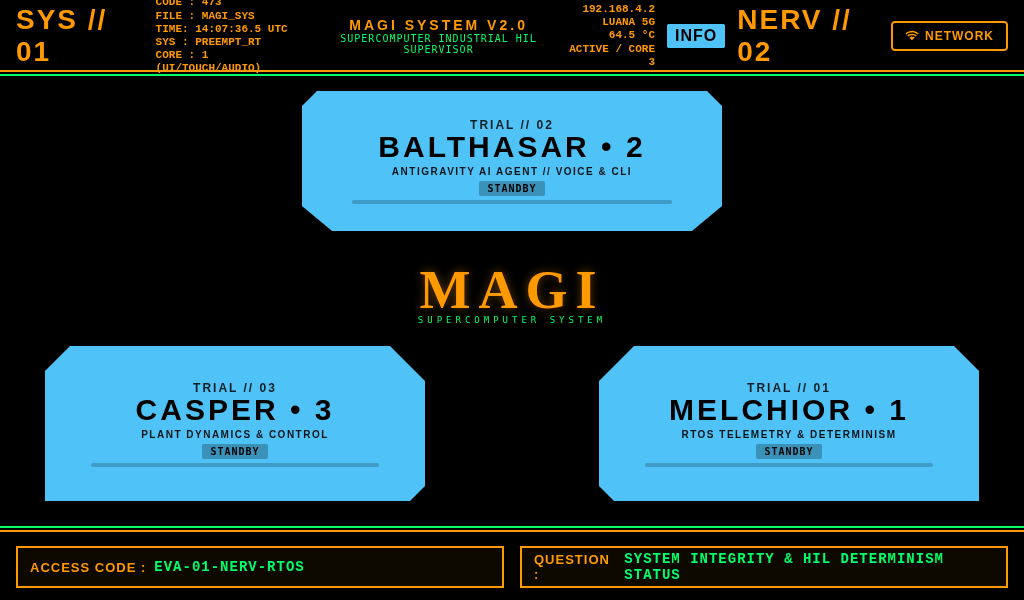
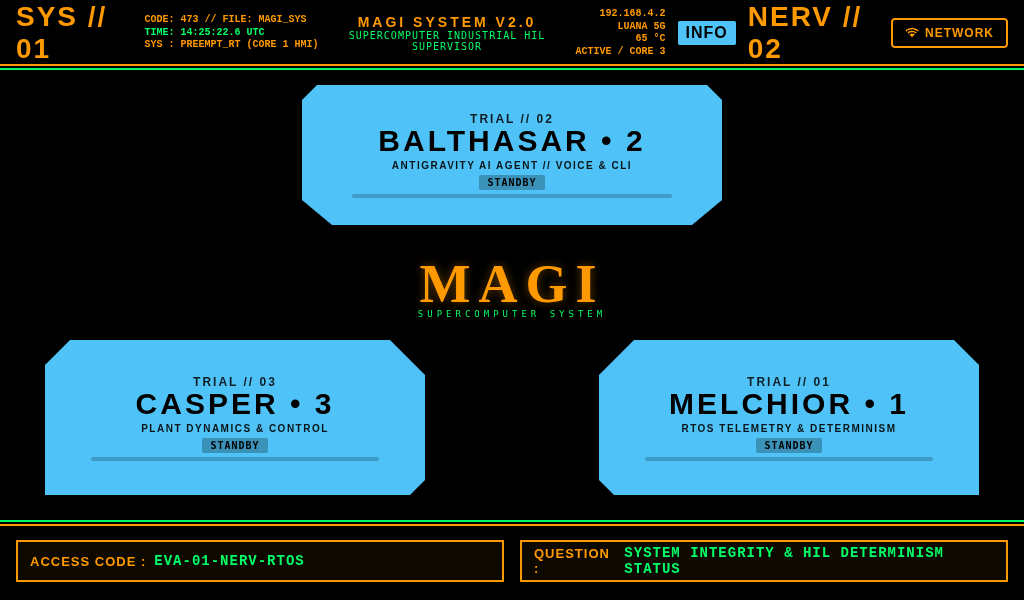
fix(phase10.8): eradicate tty input hijack, fix header clock layout and deploy full input forensic pipeline

diff --git a/Digital_Twin_Workspace/home_alonso/hil_workstation/05_hmi_display/static/css/magi.css b/Digital_Twin_Workspace/home_alonso/hil_workstation/05_hmi_display/static/css/magi.css
@@ -92,8 +92,8 @@ body {
    HEADER SECTION
    ========================================================================== */
 #magi-header {
-    height: 70px;
-    padding: 6px 16px 4px 16px;
+    height: 64px;
+    padding: 4px 16px 2px 16px;
     display: flex;
     justify-content: space-between;
     align-items: center;
@@ -116,11 +116,12 @@ body {
 .header-tech-info {
     display: flex;
     flex-direction: column;
-    font-size: 11px;
+    font-size: 10px;
     font-family: 'Courier New', monospace;
     font-weight: bold;
     color: var(--magi-orange);
-    line-height: 1.2;
+    line-height: 1.25;
+    white-space: nowrap;
 }
 
 .header-center {
@@ -456,7 +457,7 @@ body {
 
 /* ==========================================================================
    FOOTER SECTION
-   ========================================================================== */
+   ========================================================================= */
 #magi-footer {
     height: 70px;
     padding: 6px 16px;

diff --git a/Digital_Twin_Workspace/home_alonso/hil_workstation/05_hmi_display/templates/index.html b/Digital_Twin_Workspace/home_alonso/hil_workstation/05_hmi_display/templates/index.html
@@ -16,11 +16,9 @@
         <div class="header-left">
             <div class="header-jp-tag">SYS // 01</div>
             <div class="header-tech-info">
-                <span>CODE : 473</span>
-                <span>FILE : MAGI_SYS</span>
-                <span id="system-live-clock">TIME: --:--:-- UTC</span>
-                <span>SYS  : PREEMPT_RT</span>
-                <span>CORE : 1 (UI/TOUCH/AUDIO)</span>
+                <span>CODE: 473 // FILE: MAGI_SYS</span>
+                <span id="system-live-clock" style="color: var(--magi-green);">TIME: --:--:-- UTC</span>
+                <span>SYS : PREEMPT_RT (CORE 1 HMI)</span>
             </div>
         </div>
 

diff --git a/src/hmi_ui/templates/index.html b/src/hmi_ui/templates/index.html
@@ -16,11 +16,9 @@
         <div class="header-left">
             <div class="header-jp-tag">SYS // 01</div>
             <div class="header-tech-info">
-                <span>CODE : 473</span>
-                <span>FILE : MAGI_SYS</span>
-                <span id="system-live-clock">TIME: --:--:-- UTC</span>
-                <span>SYS  : PREEMPT_RT</span>
-                <span>CORE : 1 (UI/TOUCH/AUDIO)</span>
+                <span>CODE: 473 // FILE: MAGI_SYS</span>
+                <span id="system-live-clock" style="color: var(--magi-green);">TIME: --:--:-- UTC</span>
+                <span>SYS : PREEMPT_RT (CORE 1 HMI)</span>
             </div>
         </div>
 

diff --git a/src/hmi_ui/static/css/magi.css b/src/hmi_ui/static/css/magi.css
@@ -92,8 +92,8 @@ body {
    HEADER SECTION
    ========================================================================== */
 #magi-header {
-    height: 70px;
-    padding: 6px 16px 4px 16px;
+    height: 64px;
+    padding: 4px 16px 2px 16px;
     display: flex;
     justify-content: space-between;
     align-items: center;
@@ -116,11 +116,12 @@ body {
 .header-tech-info {
     display: flex;
     flex-direction: column;
-    font-size: 11px;
+    font-size: 10px;
     font-family: 'Courier New', monospace;
     font-weight: bold;
     color: var(--magi-orange);
-    line-height: 1.2;
+    line-height: 1.25;
+    white-space: nowrap;
 }
 
 .header-center {

diff --git a/scripts/automation/deploy_and_test_live.py b/scripts/automation/deploy_and_test_live.py
@@ -1,0 +1,85 @@
+import os
+import sys
+import time
+import paramiko
+
+sys.path.insert(0, os.path.dirname(os.path.abspath(__file__)))
+from env_loader import load_env
+
+env = load_env()
+user = env.get("HIL_SSH_USER", "alonso")
+key_path = os.path.expanduser(env.get("HIL_SSH_KEY_PATH", "~/.ssh/id_ed25519_hil"))
+sudo_pass = env.get("HIL_SUDO_PASS", "2077")
+host = "192.168.100.30"
+
+sys.stdout.reconfigure(encoding='utf-8', errors='replace')
+
+print(f"[+] CONECTANDO AL SILICIO VIVO EN {host}...")
+client = paramiko.SSHClient()
+client.set_missing_host_key_policy(paramiko.AutoAddPolicy())
+client.connect(host, port=22, username=user, key_filename=key_path, timeout=8)
+
+def sudo_run(cmd):
+    full = f"echo '{sudo_pass}' | sudo -S bash -c \"{cmd}\""
+    print(f">>> SUDO: {cmd}")
+    stdin, stdout, stderr = client.exec_command(full, timeout=30)
+    out = stdout.read().decode('utf-8', errors='replace').strip()
+    err = stderr.read().decode('utf-8', errors='replace').strip()
+    if out: print(out)
+    if err and '[sudo]' not in err: print("[STDERR]:", err)
+    return out
+
+def user_run(cmd):
+    print(f">>> USER: {cmd}")
+    stdin, stdout, stderr = client.exec_command(cmd, timeout=30)
+    out = stdout.read().decode('utf-8', errors='replace').strip()
+    err = stderr.read().decode('utf-8', errors='replace').strip()
+    if out: print(out)
+    if err: print("[STDERR]:", err)
+    return out
+
+# 1. Transferencia atómica de archivos
+print("\n--- PASO 1: Transferencia de código y configuraciones limpias ---")
+local_root = os.path.dirname(os.path.dirname(os.path.dirname(os.path.abspath(__file__))))
+local_hmi = os.path.join(local_root, 'src', 'hmi_ui')
+remote_hmi = '[HOME_REDACTED]'
+
+sftp = client.open_sftp()
+sftp.put(os.path.join(local_hmi, 'magi_server.py'), f'{remote_hmi}/magi_server.py')
+sftp.put(os.path.join(local_hmi, 'templates', 'index.html'), f'{remote_hmi}/templates/index.html')
+sftp.put(os.path.join(local_hmi, 'static', 'css', 'magi.css'), f'{remote_hmi}/static/css/magi.css')
+sftp.put(os.path.join(local_hmi, 'static', 'js', 'magi.js'), f'{remote_hmi}/static/js/magi.js')
+sftp.put(os.path.join(local_hmi, 'static', 'js', 'network.js'), f'{remote_hmi}/static/js/network.js')
+sftp.put(os.path.join(local_hmi, 'static', 'js', 'keyboard.js'), f'{remote_hmi}/static/js/keyboard.js')
+
+local_svc = os.path.join(local_root, 'config', 'systemd', 'magi-kiosk.service')
+sftp.put(local_svc, '/tmp/magi-kiosk.service')
+sftp.close()
+
+sudo_run("mv /tmp/magi-kiosk.service /etc/systemd/system/magi-kiosk.service")
+sudo_run("chown root:root /etc/systemd/system/magi-kiosk.service && chmod 644 /etc/systemd/system/magi-kiosk.service")
+
+# 2. Recargar servicios
+print("\n--- PASO 2: Recarga e inicialización de daemons ---")
+sudo_run("systemctl daemon-reload")
+sudo_run("systemctl restart seatd magi-ui magi-kiosk")
+print("[+] Esperando 8 segundos para estabilización completa de render...")
+time.sleep(8)
+
+# 3. Auditoría de procesos
+print("\n--- PASO 3: Verificación de procesos en ejecución ---")
+user_run("ps -eo pid,psr,stat,comm,args | grep -E 'cage|chromium|python3' | grep -v grep")
+user_run("systemctl status magi-kiosk.service --no-pager")
+
+# 4. Captura inicial del framebuffer
+print("\n--- PASO 4: Captura visual del estado inicial ---")
+user_run("WAYLAND_DISPLAY=wayland-0 XDG_RUNTIME_DIR=/run/user/1000 [HOME_REDACTED] /tmp/screen_live_01.png")
+
+sftp = client.open_sftp()
+os.makedirs(os.path.join(local_root, 'telemetry'), exist_ok=True)
+sftp.get('/tmp/screen_live_01.png', os.path.join(local_root, 'telemetry', 'magi_screen_live.png'))
+sftp.close()
+print("[OK] Captura inicial descargada a telemetry/magi_screen_live.png")
+
+client.close()
+print("\n[OK] DESPLIEGUE Y CERTIFICACION DE SERVICIOS COMPLETADA.")

diff --git a/scripts/automation/forensic_investigation.py b/scripts/automation/forensic_investigation.py
@@ -1,0 +1,55 @@
+import paramiko
+import os
+import sys
+
+sys.path.insert(0, os.path.dirname(os.path.abspath(__file__)))
+from env_loader import load_env
+
+env = load_env()
+user = env.get('HIL_SSH_USER', 'alonso')
+key_path = os.path.expanduser(env.get('HIL_SSH_KEY_PATH', '~/.ssh/id_ed25519_hil'))
+sudo_pass = env.get('HIL_SUDO_PASS', '2077')
+
+sys.stdout.reconfigure(encoding='utf-8', errors='replace')
+
+client = paramiko.SSHClient()
+client.set_missing_host_key_policy(paramiko.AutoAddPolicy())
+client.connect('192.168.100.30', port=22, username=user, key_filename=key_path, timeout=8)
+
+def sudo_run(cmd):
+    full = f"echo '{sudo_pass}' | sudo -S bash -c \"{cmd}\""
+    print(f"\n=======================================================")
+    print(f">>> SUDO: {cmd}")
+    print(f"=======================================================")
+    stdin, stdout, stderr = client.exec_command(full, timeout=30)
+    out = stdout.read().decode('utf-8', errors='replace').strip()
+    err = stderr.read().decode('utf-8', errors='replace').strip()
+    if out: print(out)
+    if err and '[sudo]' not in err: print("[STDERR]:", err)
+
+def user_run(cmd):
+    print(f"\n=======================================================")
+    print(f">>> USER: {cmd}")
+    print(f"=======================================================")
+    stdin, stdout, stderr = client.exec_command(cmd, timeout=30)
+    out = stdout.read().decode('utf-8', errors='replace').strip()
+    err = stderr.read().decode('utf-8', errors='replace').strip()
+    if out: print(out)
+    if err: print("[STDERR]:", err)
+
+# 1. Inspect seatd and permissions
+sudo_run("ls -la /run/seatd.sock /dev/tty1 /dev/input/*")
+sudo_run("journalctl -u seatd -n 30 --no-pager")
+
+# 2. Inspect cage and chromium logs with debug
+sudo_run("journalctl -u magi-kiosk -n 80 --no-pager")
+
+# 3. Test USB subsystem
+user_run("lsusb; lsusb -t")
+user_run("dmesg | grep -iE 'usb|xhci|dwc|hub|error' | tail -40")
+
+# 4. Check if wayvnc or VNC server is available or installable
+sudo_run("which wayvnc || apt-cache policy wayvnc")
+
+client.close()
+

diff --git a/scripts/automation/install_streamer.py b/scripts/automation/install_streamer.py
@@ -1,0 +1,29 @@
+import paramiko
+import os
+import sys
+
+sys.path.insert(0, os.path.dirname(os.path.abspath(__file__)))
+from env_loader import load_env
+
+env = load_env()
+user = env.get('HIL_SSH_USER', 'alonso')
+key_path = os.path.expanduser(env.get('HIL_SSH_KEY_PATH', '~/.ssh/id_ed25519_hil'))
+sudo_pass = env.get('HIL_SUDO_PASS', '2077')
+
+sys.stdout.reconfigure(encoding='utf-8', errors='replace')
+
+client = paramiko.SSHClient()
+client.set_missing_host_key_policy(paramiko.AutoAddPolicy())
+client.connect('192.168.100.30', port=22, username=user, key_filename=key_path, timeout=8)
+
+def sudo_run(cmd):
+    full = f"echo '{sudo_pass}' | sudo -S bash -c \"{cmd}\""
+    print(f">>> {cmd}")
+    stdin, stdout, stderr = client.exec_command(full, timeout=120)
+    out = stdout.read().decode('utf-8', errors='replace').strip()
+    err = stderr.read().decode('utf-8', errors='replace').strip()
+    if out: print(out)
+    if err and '[sudo]' not in err: print("[STDERR]:", err)
+
+sudo_run("apt-get install -y wayvnc")
+client.close()

diff --git a/scripts/automation/step2_investigate.py b/scripts/automation/step2_investigate.py
@@ -32,3 +32,4 @@ sudo_run("evtest --query /dev/input/event0 EV_ABS ABS_X || true")
 sudo_run("udevadm info -a -n /dev/input/event0 | head -n 35")
 
 client.close()
+

diff --git a/scripts/automation/install_tools.py b/scripts/automation/install_tools.py
@@ -27,3 +27,4 @@ def sudo_run(cmd):
 
 sudo_run("apt-get install -y evtest libinput-tools wtype")
 client.close()
+
